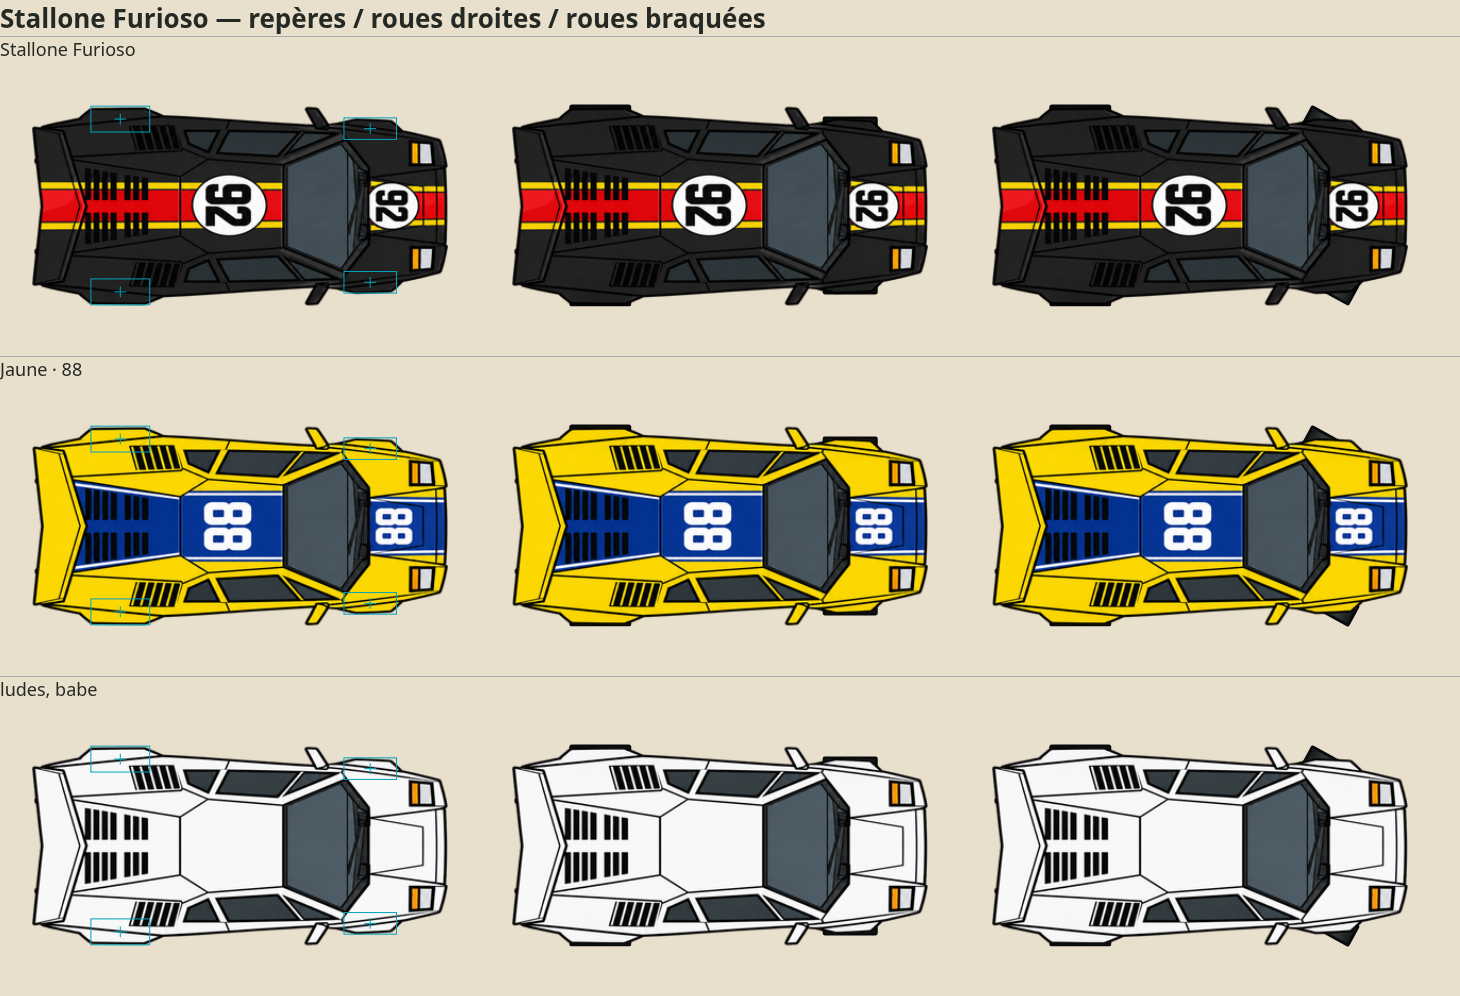
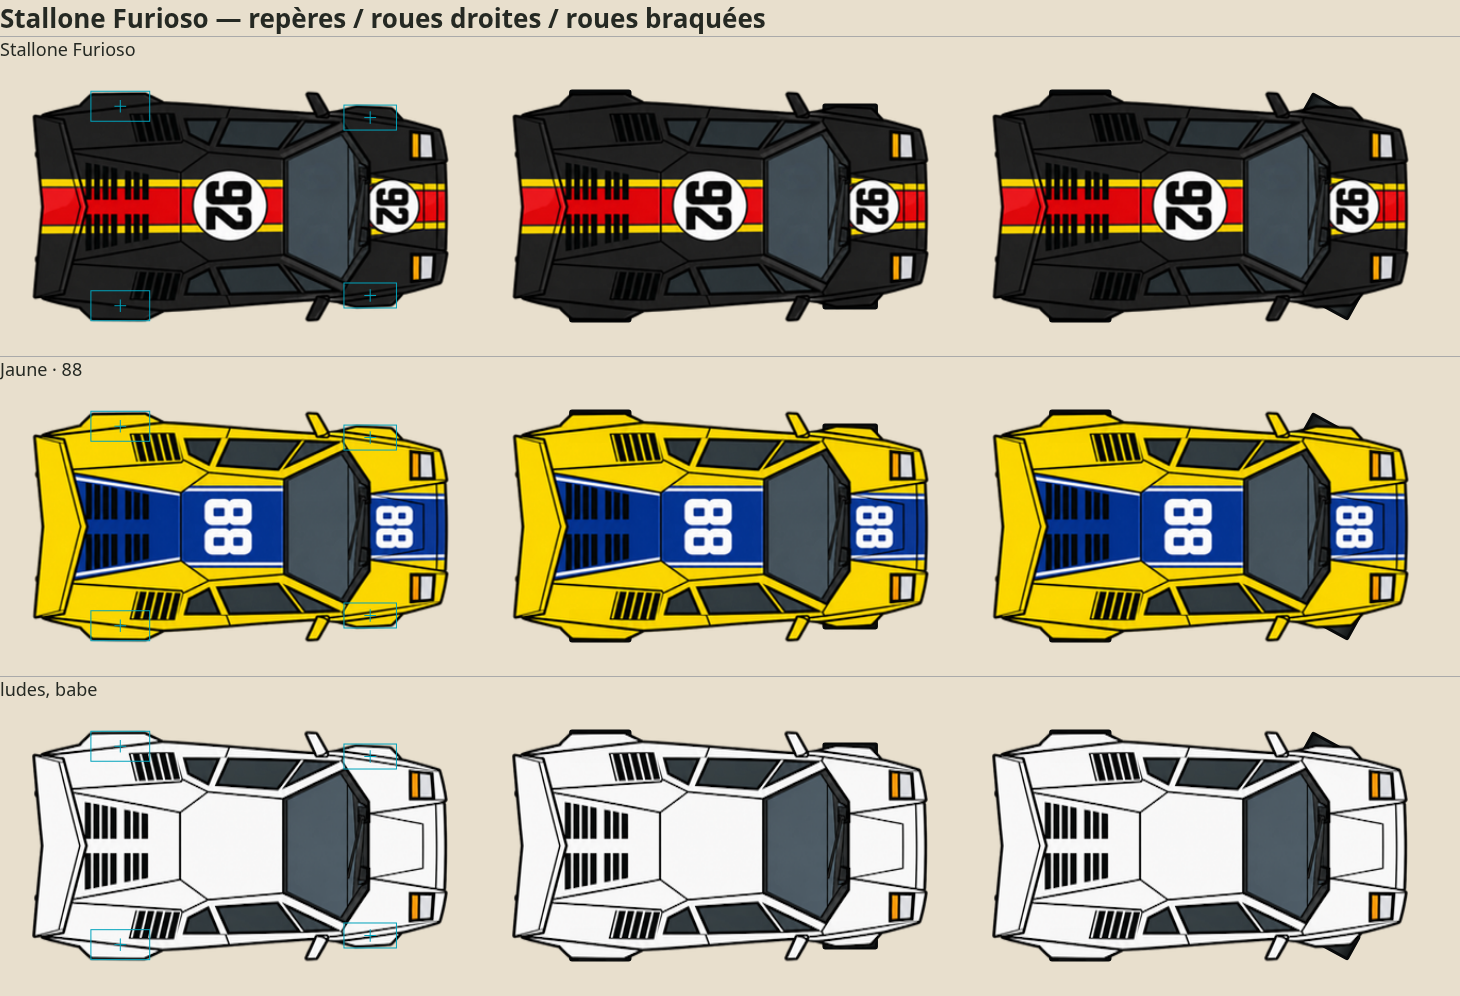
Match Countach liveries and wheel anchors to approved 235px width

diff --git a/index.html b/index.html
@@ -9,49 +9,49 @@
   <meta name="mobile-web-app-capable" content="yes">
   <meta name="theme-color" content="#0f1117">
   <title>GRIP — Racing the Line</title>
-  <link rel="icon" type="image/png" sizes="32x32" href="art/icone-32.png?v=0.52.44">
-  <link rel="icon" type="image/png" sizes="16x16" href="art/icone-16.png?v=0.52.44">
-  <link rel="icon" type="image/png" sizes="48x48" href="art/icone-48.png?v=0.52.44">
-  <link rel="icon" type="image/x-icon" href="favicon.ico?v=0.52.44">
-  <link rel="apple-touch-icon" href="art/icone-180.png?v=0.52.44">
-  <link rel="manifest" href="site.webmanifest?v=0.52.44">
-  <link rel="stylesheet" href="css/style.css?v=0.52.44">
+  <link rel="icon" type="image/png" sizes="32x32" href="art/icone-32.png?v=0.52.45">
+  <link rel="icon" type="image/png" sizes="16x16" href="art/icone-16.png?v=0.52.45">
+  <link rel="icon" type="image/png" sizes="48x48" href="art/icone-48.png?v=0.52.45">
+  <link rel="icon" type="image/x-icon" href="favicon.ico?v=0.52.45">
+  <link rel="apple-touch-icon" href="art/icone-180.png?v=0.52.45">
+  <link rel="manifest" href="site.webmanifest?v=0.52.45">
+  <link rel="stylesheet" href="css/style.css?v=0.52.45">
 </head>
 <body>
   <canvas id="game"></canvas>
   <div id="ui" class="hidden"></div>
 
-  <script src="js/version.js?v=0.52.44"></script>
-  <script src="js/maj.js?v=0.52.44"></script>
-  <script src="js/util.js?v=0.52.44"></script>
-  <script src="js/controls.js?v=0.52.44"></script>
-  <script src="js/traces.js?v=0.52.44"></script>
-  <script src="js/tracks.js?v=0.52.44"></script>
-  <script src="js/track.js?v=0.52.44"></script>
-  <script src="js/cars.js?v=0.52.44"></script>
-  <script src="js/carart.js?v=0.52.44"></script>
-  <script src="js/car.js?v=0.52.44"></script>
-  <script src="js/flags.js?v=0.52.44"></script>
-  <script src="js/race.js?v=0.52.44"></script>
-  <script src="js/career.js?v=0.52.44"></script>
-  <script src="js/store.js?v=0.52.44"></script>
-  <script src="js/props.js?v=0.52.44"></script>
-  <script src="js/room-rtc.js?v=0.52.44"></script>
-  <script src="js/paquet.js?v=0.52.44"></script>
-  <script src="js/spectator.js?v=0.52.44"></script>
-  <script src="js/net-drive.js?v=0.52.44"></script>
-  <script src="js/net.js?v=0.52.44"></script>
-  <script src="js/mondial.js?v=0.52.44"></script>
-  <script src="js/analytics.js?v=0.52.44"></script>
-  <script src="js/circuit-graphics.js?v=0.52.44"></script>
-<script src="js/render.js?v=0.52.44"></script>
-  <script src="js/engine-audio.js?v=0.52.44"></script>
-  <script src="js/audio.js?v=0.52.44"></script>
-  <script src="js/ui.js?v=0.52.44"></script>
-  <script src="js/gamepad-ui.js?v=0.52.44"></script>
-  <script src="js/main.js?v=0.52.44"></script>
-  <script src="js/static-backdrop.js?v=0.52.44"></script>
-  <script src="js/chromium-cache-fix.js?v=0.52.44"></script>
-  <script src="js/chromium-cache.js?v=0.52.44"></script>
+  <script src="js/version.js?v=0.52.45"></script>
+  <script src="js/maj.js?v=0.52.45"></script>
+  <script src="js/util.js?v=0.52.45"></script>
+  <script src="js/controls.js?v=0.52.45"></script>
+  <script src="js/traces.js?v=0.52.45"></script>
+  <script src="js/tracks.js?v=0.52.45"></script>
+  <script src="js/track.js?v=0.52.45"></script>
+  <script src="js/cars.js?v=0.52.45"></script>
+  <script src="js/carart.js?v=0.52.45"></script>
+  <script src="js/car.js?v=0.52.45"></script>
+  <script src="js/flags.js?v=0.52.45"></script>
+  <script src="js/race.js?v=0.52.45"></script>
+  <script src="js/career.js?v=0.52.45"></script>
+  <script src="js/store.js?v=0.52.45"></script>
+  <script src="js/props.js?v=0.52.45"></script>
+  <script src="js/room-rtc.js?v=0.52.45"></script>
+  <script src="js/paquet.js?v=0.52.45"></script>
+  <script src="js/spectator.js?v=0.52.45"></script>
+  <script src="js/net-drive.js?v=0.52.45"></script>
+  <script src="js/net.js?v=0.52.45"></script>
+  <script src="js/mondial.js?v=0.52.45"></script>
+  <script src="js/analytics.js?v=0.52.45"></script>
+  <script src="js/circuit-graphics.js?v=0.52.45"></script>
+<script src="js/render.js?v=0.52.45"></script>
+  <script src="js/engine-audio.js?v=0.52.45"></script>
+  <script src="js/audio.js?v=0.52.45"></script>
+  <script src="js/ui.js?v=0.52.45"></script>
+  <script src="js/gamepad-ui.js?v=0.52.45"></script>
+  <script src="js/main.js?v=0.52.45"></script>
+  <script src="js/static-backdrop.js?v=0.52.45"></script>
+  <script src="js/chromium-cache-fix.js?v=0.52.45"></script>
+  <script src="js/chromium-cache.js?v=0.52.45"></script>
 </body>
 </html>

diff --git a/editor.html b/editor.html
@@ -4,12 +4,12 @@
   <meta charset="utf-8">
   <meta name="viewport" content="width=device-width, initial-scale=1">
   <title>GRIP — Éditeur de circuits</title>
-  <link rel="icon" type="image/png" sizes="32x32" href="art/icone-32.png?v=0.52.44">
-  <link rel="icon" type="image/png" sizes="16x16" href="art/icone-16.png?v=0.52.44">
-  <link rel="icon" type="image/png" sizes="48x48" href="art/icone-48.png?v=0.52.44">
-  <link rel="icon" type="image/x-icon" href="favicon.ico?v=0.52.44">
-  <link rel="apple-touch-icon" href="art/icone-180.png?v=0.52.44">
-  <link rel="stylesheet" href="css/style.css?v=0.52.44">
+  <link rel="icon" type="image/png" sizes="32x32" href="art/icone-32.png?v=0.52.45">
+  <link rel="icon" type="image/png" sizes="16x16" href="art/icone-16.png?v=0.52.45">
+  <link rel="icon" type="image/png" sizes="48x48" href="art/icone-48.png?v=0.52.45">
+  <link rel="icon" type="image/x-icon" href="favicon.ico?v=0.52.45">
+  <link rel="apple-touch-icon" href="art/icone-180.png?v=0.52.45">
+  <link rel="stylesheet" href="css/style.css?v=0.52.45">
   <style>
     body { overflow: hidden; }
     #ed { position: fixed; inset: 0; display: grid; grid-template-columns: 300px 1fr; }
@@ -61,16 +61,16 @@
       </div>
     </div>
   </div>
-  <script src="js/util.js?v=0.52.44"></script>
-  <script src="js/traces.js?v=0.52.44"></script>
-  <script src="js/tracks.js?v=0.52.44"></script>
-  <script src="js/track.js?v=0.52.44"></script>
-  <script src="js/store.js?v=0.52.44"></script>
-  <script src="js/props.js?v=0.52.44"></script>
-  <script src="js/circuit-graphics.js?v=0.52.44"></script>
-  <script src="js/flags.js?v=0.52.44"></script>
-  <script src="js/render.js?v=0.52.44"></script>
-  <script src="js/fichier-tracks.js?v=0.52.44"></script>
-  <script src="js/editeur-decor.js?v=0.52.44"></script>
+  <script src="js/util.js?v=0.52.45"></script>
+  <script src="js/traces.js?v=0.52.45"></script>
+  <script src="js/tracks.js?v=0.52.45"></script>
+  <script src="js/track.js?v=0.52.45"></script>
+  <script src="js/store.js?v=0.52.45"></script>
+  <script src="js/props.js?v=0.52.45"></script>
+  <script src="js/circuit-graphics.js?v=0.52.45"></script>
+  <script src="js/flags.js?v=0.52.45"></script>
+  <script src="js/render.js?v=0.52.45"></script>
+  <script src="js/fichier-tracks.js?v=0.52.45"></script>
+  <script src="js/editeur-decor.js?v=0.52.45"></script>
 </body>
 </html>

diff --git a/lignes.html b/lignes.html
@@ -4,12 +4,12 @@
 <meta charset="utf-8">
 <meta name="viewport" content="width=device-width, initial-scale=1, viewport-fit=cover, maximum-scale=1">
 <title>GRIP — Éditeur de lignes et de panneaux</title>
-<link rel="icon" type="image/png" sizes="32x32" href="art/icone-32.png?v=0.52.44">
-<link rel="icon" type="image/png" sizes="16x16" href="art/icone-16.png?v=0.52.44">
-<link rel="icon" type="image/png" sizes="48x48" href="art/icone-48.png?v=0.52.44">
-<link rel="icon" type="image/x-icon" href="favicon.ico?v=0.52.44">
-<link rel="apple-touch-icon" href="art/icone-180.png?v=0.52.44">
-<link rel="stylesheet" href="css/style.css?v=0.52.44">
+<link rel="icon" type="image/png" sizes="32x32" href="art/icone-32.png?v=0.52.45">
+<link rel="icon" type="image/png" sizes="16x16" href="art/icone-16.png?v=0.52.45">
+<link rel="icon" type="image/png" sizes="48x48" href="art/icone-48.png?v=0.52.45">
+<link rel="icon" type="image/x-icon" href="favicon.ico?v=0.52.45">
+<link rel="apple-touch-icon" href="art/icone-180.png?v=0.52.45">
+<link rel="stylesheet" href="css/style.css?v=0.52.45">
 <style>
   body { overflow: hidden; }
   #ed { position: fixed; inset: 0; display: grid; grid-template-columns: 340px 1fr; }
@@ -240,16 +240,16 @@
   </div>
 </div>
 
-<script src="js/store.js?v=0.52.44"></script>
-<script src="js/util.js?v=0.52.44"></script>
-<script src="js/traces.js?v=0.52.44"></script>
-<script src="js/tracks.js?v=0.52.44"></script>
-<script src="js/track.js?v=0.52.44"></script>
-<script src="js/props.js?v=0.52.44"></script>
-<script src="js/circuit-graphics.js?v=0.52.44"></script>
-<script src="js/flags.js?v=0.52.44"></script>
-<script src="js/render.js?v=0.52.44"></script>
-<script src="js/fichier-tracks.js?v=0.52.44"></script>
-<script src="js/lignes.js?v=0.52.44"></script>
+<script src="js/store.js?v=0.52.45"></script>
+<script src="js/util.js?v=0.52.45"></script>
+<script src="js/traces.js?v=0.52.45"></script>
+<script src="js/tracks.js?v=0.52.45"></script>
+<script src="js/track.js?v=0.52.45"></script>
+<script src="js/props.js?v=0.52.45"></script>
+<script src="js/circuit-graphics.js?v=0.52.45"></script>
+<script src="js/flags.js?v=0.52.45"></script>
+<script src="js/render.js?v=0.52.45"></script>
+<script src="js/fichier-tracks.js?v=0.52.45"></script>
+<script src="js/lignes.js?v=0.52.45"></script>
 </body>
 </html>

diff --git a/analytics.html b/analytics.html
@@ -6,8 +6,8 @@
   <meta name="robots" content="noindex,nofollow">
   <meta name="referrer" content="same-origin">
   <title>Statistiques · GRIP</title>
-  <link rel="icon" href="art/icone-32.png?v=0.52.44">
-  <link rel="stylesheet" href="css/analytics.css?v=0.52.44">
+  <link rel="icon" href="art/icone-32.png?v=0.52.45">
+  <link rel="stylesheet" href="css/analytics.css?v=0.52.45">
 </head>
 <body>
   <header><a class="brand" href="index.html">GRIP <span> / ANALYTICS</span></a>
@@ -45,9 +45,9 @@
         <p><span data-i18n="charts">Graphiques :</span> <a href="https://github.com/apache/echarts">Apache ECharts 6.0.0</a> · <a href="vendor/echarts/LICENSE">Apache 2.0</a>. <a href="docs/analytics/README.md" data-i18n="install">Installation et définitions</a>.</p></footer>
     </div>
   </main>
-  <script src="js/version.js?v=0.52.44"></script><script src="js/util.js?v=0.52.44"></script>
-  <script src="js/traces.js?v=0.52.44"></script><script src="js/tracks.js?v=0.52.44"></script><script src="js/cars.js?v=0.52.44"></script>
-  <script src="js/mondial.js?v=0.52.44"></script><script src="vendor/echarts/echarts.min.js?v=0.52.44"></script>
-  <script src="js/analytics-dashboard.js?v=0.52.44"></script>
+  <script src="js/version.js?v=0.52.45"></script><script src="js/util.js?v=0.52.45"></script>
+  <script src="js/traces.js?v=0.52.45"></script><script src="js/tracks.js?v=0.52.45"></script><script src="js/cars.js?v=0.52.45"></script>
+  <script src="js/mondial.js?v=0.52.45"></script><script src="vendor/echarts/echarts.min.js?v=0.52.45"></script>
+  <script src="js/analytics-dashboard.js?v=0.52.45"></script>
 </body>
 </html>

diff --git a/moteur.html b/moteur.html
@@ -4,12 +4,12 @@
   <meta charset="utf-8">
   <meta name="viewport" content="width=device-width, initial-scale=1, viewport-fit=cover">
   <title>GRIP — banc moteur</title>
-  <link rel="icon" type="image/png" sizes="32x32" href="art/icone-32.png?v=0.52.44">
-  <link rel="icon" type="image/png" sizes="16x16" href="art/icone-16.png?v=0.52.44">
-  <link rel="icon" type="image/png" sizes="48x48" href="art/icone-48.png?v=0.52.44">
-  <link rel="icon" type="image/x-icon" href="favicon.ico?v=0.52.44">
-  <link rel="apple-touch-icon" href="art/icone-180.png?v=0.52.44">
-  <link rel="stylesheet" href="css/style.css?v=0.52.44">
+  <link rel="icon" type="image/png" sizes="32x32" href="art/icone-32.png?v=0.52.45">
+  <link rel="icon" type="image/png" sizes="16x16" href="art/icone-16.png?v=0.52.45">
+  <link rel="icon" type="image/png" sizes="48x48" href="art/icone-48.png?v=0.52.45">
+  <link rel="icon" type="image/x-icon" href="favicon.ico?v=0.52.45">
+  <link rel="apple-touch-icon" href="art/icone-180.png?v=0.52.45">
+  <link rel="stylesheet" href="css/style.css?v=0.52.45">
   <style>
     body { margin: 0; background: #0f1117; color: #e8e8ec; font: 15px/1.5 system-ui, sans-serif; }
     .banc { max-width: 720px; margin: 0 auto; padding: 18px 16px 60px; }
@@ -55,7 +55,7 @@
     <p class="muted" style="margin-top:18px">Ce que le mélangeur envoie, en direct :</p>
     <table id="voies"></table>
   </div>
-  <script src="js/engine-audio.js?v=0.52.44"></script>
-  <script src="js/moteur.js?v=0.52.44"></script>
+  <script src="js/engine-audio.js?v=0.52.45"></script>
+  <script src="js/moteur.js?v=0.52.45"></script>
 </body>
 </html>

diff --git a/js/cars.js b/js/cars.js
@@ -395,9 +395,9 @@ for (const r of [
   ['f40',0.825,0.0959,0.9089,0.13,0.12],
   ['f40_red',0.825,0.1007,0.9041,0.13,0.12],
   ['f40_yellow',0.823,0.0959,0.9041,0.13,0.12],
-  ['countach',0.81,0.1416,0.8535,0.125,0.1],
-  ['countach_rainx',0.81,0.1416,0.8584,0.125,0.1],
-  ['countach_monaco83',0.81,0.1416,0.8584,0.125,0.1],
+  ['countach',0.81,0.1461,0.8581,0.125,0.1],
+  ['countach_rainx',0.81,0.1461,0.8581,0.125,0.1],
+  ['countach_monaco83',0.81,0.1419,0.8581,0.125,0.1],
   ['930',0.79,0.078,0.9176,0.15,0.16],
   ['930_swiss',0.78,0.0869,0.9176,0.15,0.16],
   ['930_valliant',0.8,0.078,0.9176,0.15,0.16],
@@ -439,9 +439,9 @@ for (const r of [
   ['p68_gulf',0.815,0.0975,0.9025,0.14,0.14]
 ]) registerWheelSprite(r[0],spriteAxle(...r.slice(1)));
 for (const r of [
-  ['countach',0.215,0.0974,0.8977,0.14,0.12],
-  ['countach_rainx',0.215,0.0974,0.8977,0.14,0.12],
-  ['countach_monaco83',0.215,0.0974,0.8977,0.14,0.12],
+  ['countach',0.215,0.1008,0.8992,0.14,0.12],
+  ['countach_rainx',0.215,0.1008,0.8992,0.14,0.12],
+  ['countach_monaco83',0.215,0.1008,0.8949,0.14,0.12],
   ['gt40',0.19,0.0576,0.9376,0.13,0.12],
   ['gt40_lemans1',0.19,0.0576,0.9376,0.13,0.12],
   ['gt40_lemans2',0.19,0.0576,0.9376,0.13,0.12],

diff --git a/js/version.js b/js/version.js
@@ -11,7 +11,7 @@ browser to fetch the new files.
 */
 'use strict';
 
-const APP_VERSION = '0.52.44';
+const APP_VERSION = '0.52.45';
 const APP_DATE = '2026-10-29';
 /* Le canal. Le dépôt, tel quel, EST la recette : c'est lui que sert brunodrapi.github.io/Slot_car_racing,
 code source commenté compris. La prod est la version fabriquée par `tools/build-dist.js`, qui écrit

diff --git a/docs/ancrages-roues/README.md b/docs/ancrages-roues/README.md
@@ -4,6 +4,10 @@ Les roues séparées du dessin ont maintenant des ancrages propres à chaque spr
 
 Chaque planche montre, de gauche à droite : **repères cyan des centres et de l’encombrement des pneus**, **roues droites**, **roues braquées**. Chaque ligne correspond à une livrée. L’avant des voitures est à droite.
 
+## Mise à jour 0.52.45 — Stallone
+
+La livrée blanche fournie par le joueur mesure 395 × 235 px. Les versions noire et jaune ont reçu le même étirement transversal (203 → 235 px, soit +15,8 %), sans changement de longueur ni de livrée. Le fichier blanc fourni est conservé tel quel. Les six paires de roues ont été recalées sur les contours ; leur largeur suit le nouveau gabarit. La planche Countach et les relevés ci-dessous montrent cette version.
+
 ## Corrections
 
 - F1 : roues avant recentrées sur les moyeux dessinés ; les quatre roues avant de la Sixpence ont leurs propres points de placement. Les bras ajoutés à la Windsor rejoignent les nouveaux centres, sous les pneus.

diff --git a/CHANGELOG.md b/CHANGELOG.md
@@ -4,6 +4,9 @@ Ce qui change pour le joueur, version par version, en une ligne et sans détail 
 message des publications en prod (`tools/publier.sh`) ; le pourquoi et les mesures sont dans le code
 et dans le README.
 
+## 0.52.45
+- Stallone : les trois livrées partagent le gabarit élargi à 235 px fourni pour la blanche ; roues avant et arrière recalées sur les ailes.
+
 ## 0.52.44
 - Roues recalées par livrée sur les ailes et les moyeux ; pivots de braquage et ombres alignés, notamment pour les F1 et la Stallone.
 
